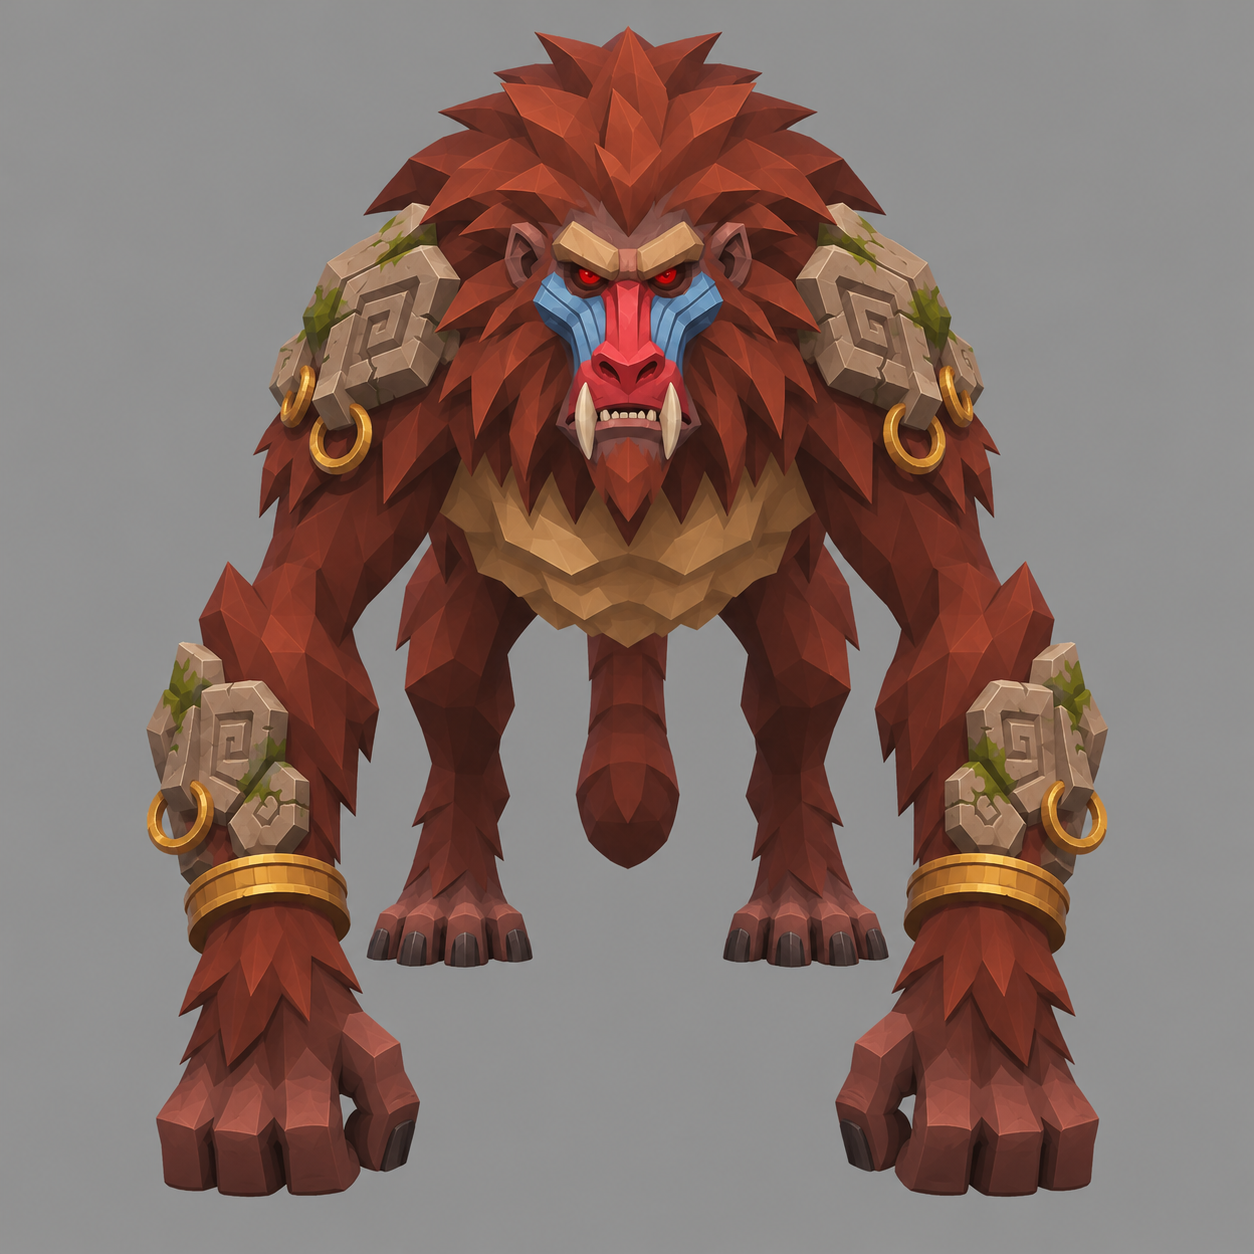
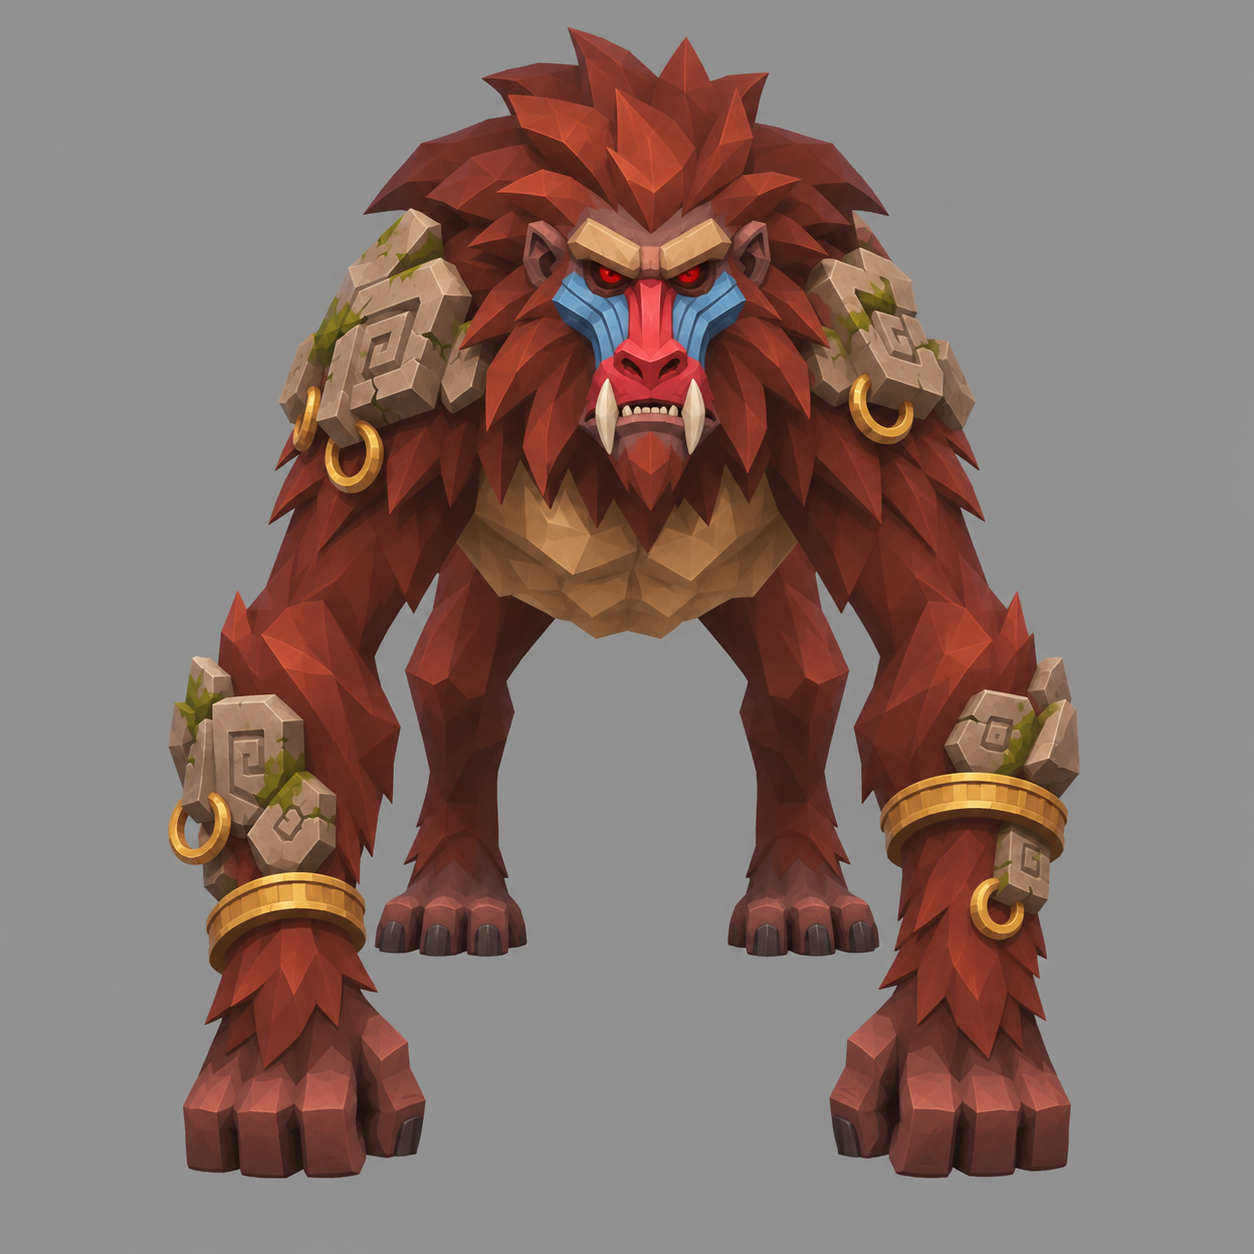
Ruin Howler: richtiges Frontbild

Changed region(s): [[0.0933, 0.0, 0.9019, 0.9641], [0.3732, 0.5909, 0.4043, 0.6531]]

diff --git a/BACKLOG.md b/BACKLOG.md
@@ -53,7 +53,7 @@ Status: ✅ erledigt · 🔄 Subagent arbeitet · ⏭ als Nächstes · ⏸ zurü
 | G1 | Monster-Datenbank `H:\AIProjects\poe2-MTXeastCatalog\data\catalog.json` (alle PoE-Monster) eigenständig auswerten: Monsterarten auflisten, semantisch in 3D-Kategorien einordnen → lange Liste, welche **Skelette und Bewegungsmuster** wir noch brauchen und welche **Monsterarten zu unserem Game passen**. **Inspiration, keine Kopie!** Ziel des Spiels: später mindestens **50–100 Basis-Monster**, je 5–6 Biom-Varianten oder Elite-Addons. Hinweis des Nutzers: von 7.133 Einträgen sind nur ~2.800 echte Monster, der Rest Varianten. | ✅ `RECHERCHE_MONSTERARTEN.md` (2.872 echte Monster, Stand DB 2026-11-17T20:25Z, Schema v2). Vorhandene 8 Skelette decken 71,9 % der Kreaturen; mit `upright`, `winged`, `amorph`, `static` 99,9 %. 83 generische Basis-Archetypen, 6er-Variantenschema, Reihenfolge: spider → leopard/bear → upright (golem, brute) → wraith/orb → winged → static → slime → frog/badger/monkey. Zuordnung: `temp/monster_research/kategorien.csv`. |
 | G2 | Recherche-Bericht lesen; offene Roster-Liste mit den Erkenntnissen erweitern; je Lücke 2–3 konkrete Kreatur-Vorschläge mit passendem Bewegungsmuster, Nutzer wählt aus. | ✅ Nutzer 2026-11-18: für **alle 16** Zeilen Kreaturen anlegen, Claude wählt; Biome erweitern. Erledigt (Agent Roster-Erweiterung): `templates/biomes.toml` (18 Biome), 16 Kreaturen in `creatures/roster.toml` mit `biome`/`role`/6 `varianten`, Ordner + creature.toml + prompts.md (ohne Concept: Stufe 1 = Design-Entwurf, du prüfst), neue Baupläne upright/winged/floater/amorph/static, PROMPTS_ALLE.md mit 36 Kreaturen. Auswahl: `ROSTER_ERWEITERUNG_VORSCHLAG.md` → „Gewählt“. ❓ Nutzer: Auswahl und Design-Bilder prüfen. |
 | G3 | Nächste Bewegungsmuster (Nutzer 2026-11-18): mantis, spider, tortoise, gorilla, sandworm, frog, monkey, centipede, treant, drake, bird. Zuerst Broodling, Shellback, Sand Leviathan zu Tripo. Shellback sorgfältig neu schneiden. Sandwurm: **rundes Maul behalten** (besser als Krokodilmaul). | 🔄 Shellback aus `grid_4_ansichten.png` nach Inhalt neu geschnitten (Köpfe waren ins Nachbarbild gerutscht), gemeinsamer Maßstab; Sandwurm-`look` auf rundes Maul. Mantis/Gorilla brauchen neue Bilder (Beinzahl bzw. Pose/Schwanz inkonsistent). |
-| G4 | Nutzer 2026-11-18: Gorilla-Bilder (Frost Colossus) sind gut – Claudes Einwand war eine Fehleinschätzung wegen der Perspektive. Bilder für die 6 neuen gemacht → Tripo. | Pflichtprüfung A: ✅ Cinder Wyvern, Bonepicker Vulture, Oasis Gulper (Maul in Ruhe weit offen), Frost Colossus → Tripo. ❌ Ruin Howler (Schwanz hinten/vorn hängend zwischen den Beinen, seitlich waagerecht), Gloomfang Centipede (front/back sind Draufsichten), Bog Warden (Seiten sind 45°-Schrägansichten) → neue Ansichten nötig (Stufe 2 mit design.png wiederholen). Mantis: Beinzahl inkonsistent → neu. |
+| G4 | Nutzer 2026-11-18: Gorilla-Bilder (Frost Colossus) sind gut – Claudes Einwand war eine Fehleinschätzung wegen der Perspektive. Bilder für die 6 neuen gemacht → Tripo. | Pflichtprüfung A: ✅ Cinder Wyvern, Bonepicker Vulture, Oasis Gulper (Maul in Ruhe weit offen), Frost Colossus → Tripo. Ruin Howler: falsches Frontbild hochgeladen (Nutzer) → mit neuem Frontbild ✅ (Rückansicht = Perspektive, Schwanz gestreckt) → Tripo. ❌ Gloomfang Centipede (front/back sind Draufsichten), Bog Warden (Seiten sind 45°-Schrägansichten) → neue Ansichten nötig (Stufe 2 mit design.png wiederholen). Mantis: Beinzahl inkonsistent → neu. |
 
 ## Warteschlange Subagenten (ab 2026-11-18: max. 1 Bau-Agent + 1 leichter Agent gleichzeitig)
 
